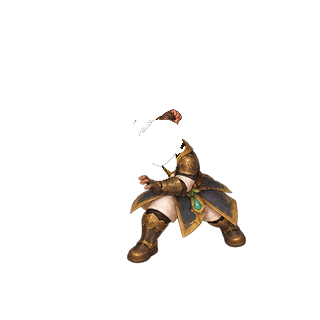
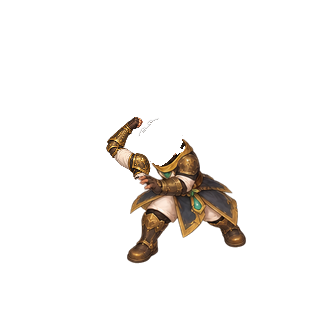
Repair SW acceleration arm after real-motion anatomy review

Changed region(s): [[0.3125, 0.3438, 0.5625, 0.5625], [0.4688, 0.3438, 0.5938, 0.4062]]

diff --git a/tools/build_attack_anatomy.py b/tools/build_attack_anatomy.py
@@ -36,7 +36,14 @@ def replace_arm(body, raw, annotation, head_mask):
             (arr[:, :, 2] > arr[:, :, 0]*.45) & (arr[:, :, 3] > 180))
     skin[315:] = False
     labels, count = ndimage.label(ndimage.binary_closing(skin, iterations=1))
-    if count:
+    if 'generatedHeadPolygon' in annotation:
+        # Warm ivory cloth can touch the skin seed. A reviewed skull contour
+        # keeps that sleeve intact instead of treating it as generated face.
+        head = Image.new('L', raw.size)
+        if annotation['generatedHeadPolygon']:
+            ImageDraw.Draw(head).polygon([tuple(p) for p in annotation['generatedHeadPolygon']], fill=255)
+        arr[np.asarray(head) > 0] = 0
+    elif count:
         sizes = np.bincount(labels.ravel()); sizes[0] = 0
         context_head = ndimage.binary_dilation(ndimage.binary_fill_holes(labels == sizes.argmax()), iterations=2)
         arr[context_head] = 0
@@ -60,6 +67,10 @@ def replace_arm(body, raw, annotation, head_mask):
     for chain in annotation.get('extraEraseChains', []):
         extra = arm_mask(chain, annotation.get('oldWidth', 27))
         old_mask = Image.fromarray(np.maximum(np.asarray(old_mask), np.asarray(extra)))
+    if 'oldEraseMaxY' in annotation:
+        bounded = np.asarray(old_mask).copy()
+        bounded[annotation['oldEraseMaxY']+1:] = 0
+        old_mask = Image.fromarray(bounded)
     mask = Image.fromarray(np.maximum(np.asarray(new_mask), np.asarray(old_mask)))
     # Never admit a generated face or costume redesign outside the arm area.
     mask_array = np.asarray(mask).copy()
@@ -74,7 +85,25 @@ def replace_arm(body, raw, annotation, head_mask):
     arr = np.asarray(normalized).copy()
     arr[:, :, 3][arr[:, :, 3] >= 250] = 255
     normalized = Image.fromarray(arr)
-    result = Image.composite(normalized, body, soft)
+    if annotation.get('isolatedArm'):
+        # An unoccluded limb cutout supplies the missing upper arm. Remove
+        # only the old limb above the protected collar, then paint the new
+        # arm over its shoulder. Empty cutout margin cannot erase the torso.
+        old_array = np.asarray(old_mask).copy()
+        new_array = np.asarray(new_mask).copy()
+        protected = np.asarray(head_mask) > 0
+        old_array[protected] = 0
+        new_array[protected] = 0
+        old_soft = Image.fromarray(old_array).filter(ImageFilter.GaussianBlur(.65))
+        old_soft = Image.fromarray(np.minimum(np.asarray(old_soft), old_array))
+        base = Image.composite(Image.new('RGBA', body.size), body, old_soft)
+        new_soft = Image.fromarray(new_array).filter(ImageFilter.GaussianBlur(.65))
+        new_soft = np.minimum(np.asarray(new_soft), new_array)
+        patch = np.asarray(normalized).copy()
+        patch[:, :, 3] = (patch[:, :, 3].astype(float)*new_soft/255).round().astype('uint8')
+        result = Image.alpha_composite(base, Image.fromarray(patch))
+    else:
+        result = Image.composite(normalized, body, soft)
     # Keep transparent RGB canonical. This is normalization, not pose drawing.
     arr = np.asarray(result).copy(); arr[arr[:, :, 3] == 0] = 0
     return Image.fromarray(arr), mask, points, shift
@@ -82,7 +111,6 @@ def replace_arm(body, raw, annotation, head_mask):
 def run():
     pack = json.loads(SOURCE.read_text())
     atlas = Image.open(ROOT / pack['atlases']['body-basicattack']['file']).convert('RGBA')
-    provenance = json.loads((ROOT / 'authoring/characters/builds/swordsman-registration-v1/salvage-receipt.json').read_text())
     head_atlas = Image.open(ROOT / pack['atlases']['head-basicattack']['file']).convert('RGBA')
     heads = {}
     for direction in pack['bodyContract']['directions']:
